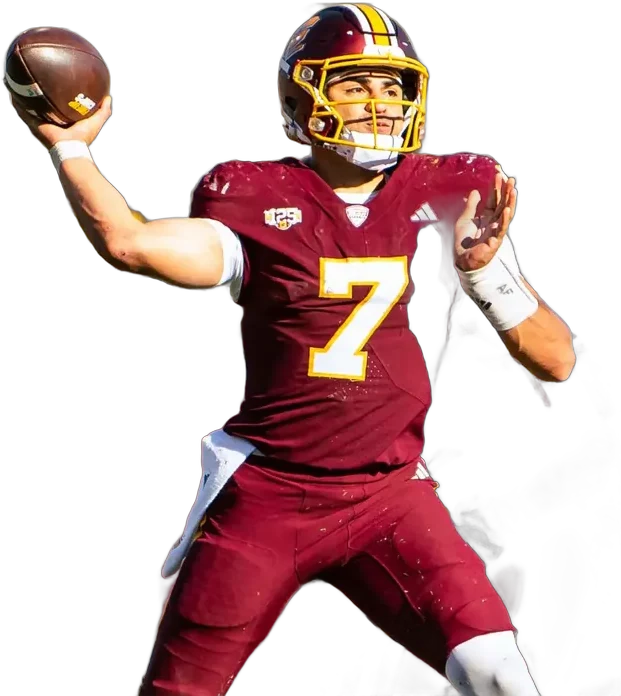
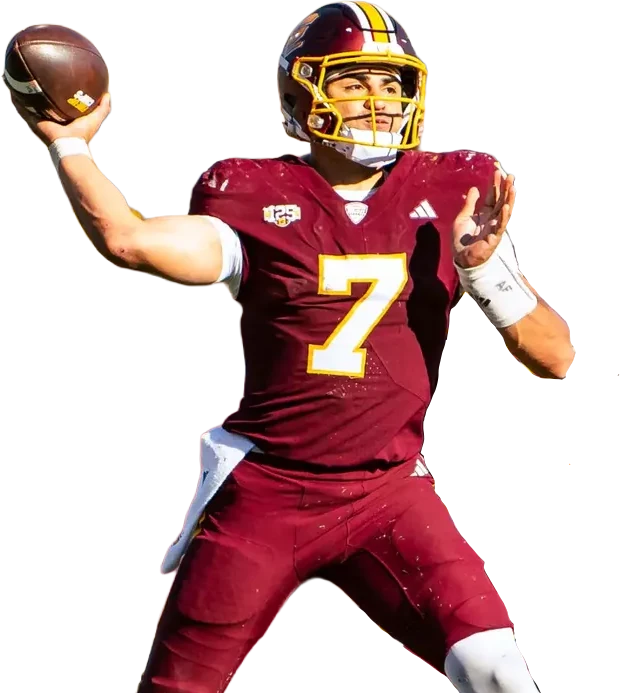
Dynasty: Messiah Burch cutout, use Josh's Angel Flores cutout
Claude-Session: https://claude.ai/code/session_01NaVXXQDHcbsTmtHRjNykTc

diff --git a/site/dynasty/index.html b/site/dynasty/index.html
@@ -920,7 +920,7 @@ function mirrorPath(dp){const t=dp.match(/[A-Za-z]|-?\d*\.?\d+/g);let out=[],cmd
   const v=+x;if(cmd==="H"||((cmd==="M"||cmd==="L"||cmd==="C")&&k%2===0))out.push((1143-v).toFixed(3));else out.push(x);k++}return out.join(" ")}
 const P_PANELU=P_PANEL+"M562 380H885V1020H562Z";
 // Player cutouts: add "TEAM|Full Name":"file" when a new photo lands in cards/players/
-const PHOTOS={"BUFF|Jason Wright":"buff-jason-wright.webp","CMU|Angel Flores":["cmu-angel-flores.webp",1.32,"78% 100%"]}; // [file, zoom, zoom origin] for wide shots
+const PHOTOS={"BUFF|Jason Wright":"buff-jason-wright.webp","BUFF|Messiah Burch":"buff-messiah-burch.webp","CMU|Angel Flores":["cmu-angel-flores.webp",1.32,"78% 100%"]}; // [file, zoom, zoom origin] for wide shots
 function photoOf(p){const f=PHOTOS[(p.team||"")+"|"+(p.name||"")];if(!f)return null;const [n,z,o]=Array.isArray(f)?f:[f];return {src:"cards/players/"+n,z:z||1,o:o||"50% 100%"}}
 function pcard(d,p,cat,rank,opts={}){
   if(!p.img){const ph=photoOf(p);if(ph)p={...p,img:ph.src,imgZ:ph.z,imgO:ph.o}}
